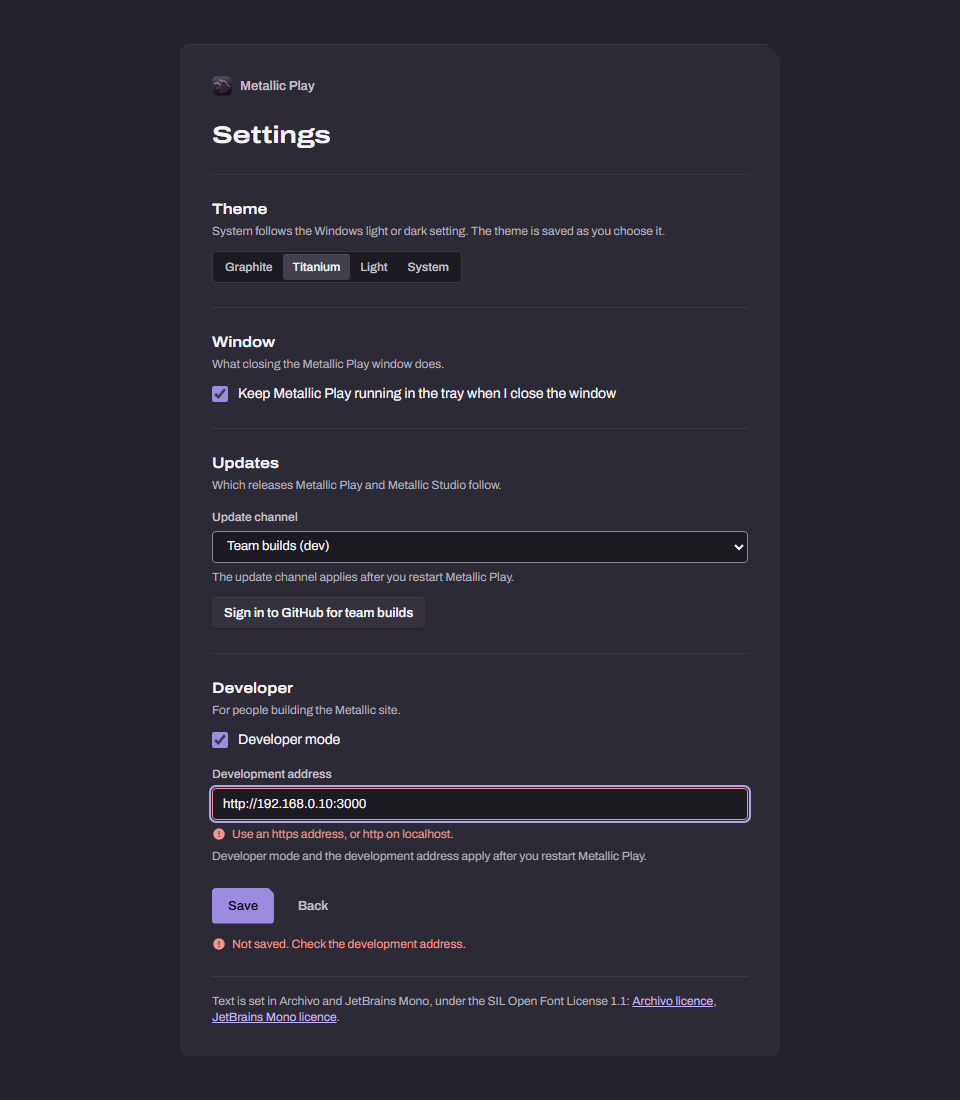
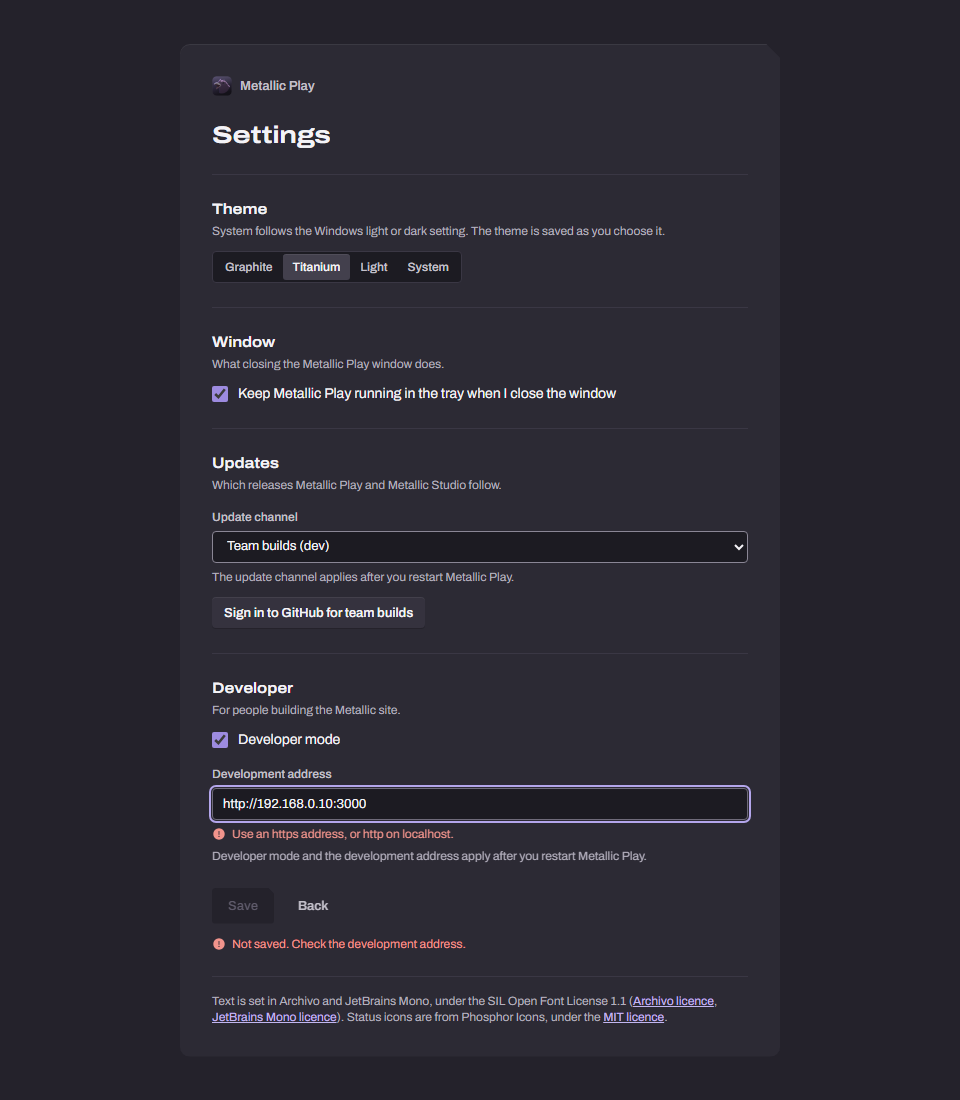
Launcher pages follow-ups to L1 (#392): theme leniency, screenshot, CI font check
- settings.rs: a theme that is not a word (`theme = 3`, a table, a list) now resets only the
  theme; before, it failed the whole file and reset every setting. Test added.
- Re-shot docs/design/launcher-pages/settings-error-titanium.png: the licence line now shows
  the Phosphor sentence that settings.html has.
- CI: the build-lane-portability job runs `tools/gen_web_fonts.py --check` with the same
  fontTools and brotli versions as the committed WOFF2 files.

Changed region(s): [[0.375, 0.8964, 0.75, 0.9273], [0.2188, 0.8036, 0.3125, 0.8655]]

diff --git a/crates/metallic_launcher/src/settings.rs b/crates/metallic_launcher/src/settings.rs
@@ -79,16 +79,25 @@ impl Theme {
     }
 }
 
-/// Reads a theme word, giving the default for a word this build does not know.
+/// Reads a theme word, giving the default for a word this build does not know or a value that is
+/// not a word at all (`theme = 3`), so a bad theme never costs the other settings.
 fn theme_or_default<'de, D>(deserializer: D) -> Result<Theme, D::Error>
 where
     D: Deserializer<'de>,
 {
-    let word = String::deserialize(deserializer)?;
-    Ok(Theme::ALL
-        .into_iter()
-        .find(|theme| theme.as_str() == word)
-        .unwrap_or_default())
+    #[derive(Deserialize)]
+    #[serde(untagged)]
+    enum Value {
+        Word(String),
+        Other(serde::de::IgnoredAny),
+    }
+    Ok(match Value::deserialize(deserializer)? {
+        Value::Word(word) => Theme::ALL
+            .into_iter()
+            .find(|theme| theme.as_str() == word)
+            .unwrap_or_default(),
+        Value::Other(_) => Theme::default(),
+    })
 }
 
 impl Default for LauncherSettings {

diff --git a/crates/metallic_launcher/tests/settings.rs b/crates/metallic_launcher/tests/settings.rs
@@ -55,6 +55,23 @@ theme = \"chrome\"
 }
 
 #[test]
+fn a_theme_that_is_not_a_word_resets_only_the_theme() {
+    let tmp = tempfile::tempdir().unwrap();
+    let path = tmp.path().join("settings.toml");
+    for bad in ["3", "true", "[\"light\"]", "{ name = \"light\" }"] {
+        std::fs::write(
+            &path,
+            format!("close_to_tray = false\ndeveloper_mode = true\ntheme = {bad}\n"),
+        )
+        .unwrap();
+        let settings = SettingsStore::at(path.clone()).load();
+        assert!(!settings.close_to_tray, "{bad}");
+        assert!(settings.developer_mode, "{bad}");
+        assert_eq!(settings.theme, Theme::Graphite, "{bad}");
+    }
+}
+
+#[test]
 fn every_named_theme_is_a_shared_token_theme() {
     // The pages set `data-theme` to this word; the token CSS must have a block for it.
     let set = metallic_tokens::parse(metallic_tokens::TOKENS_JSON).unwrap();
